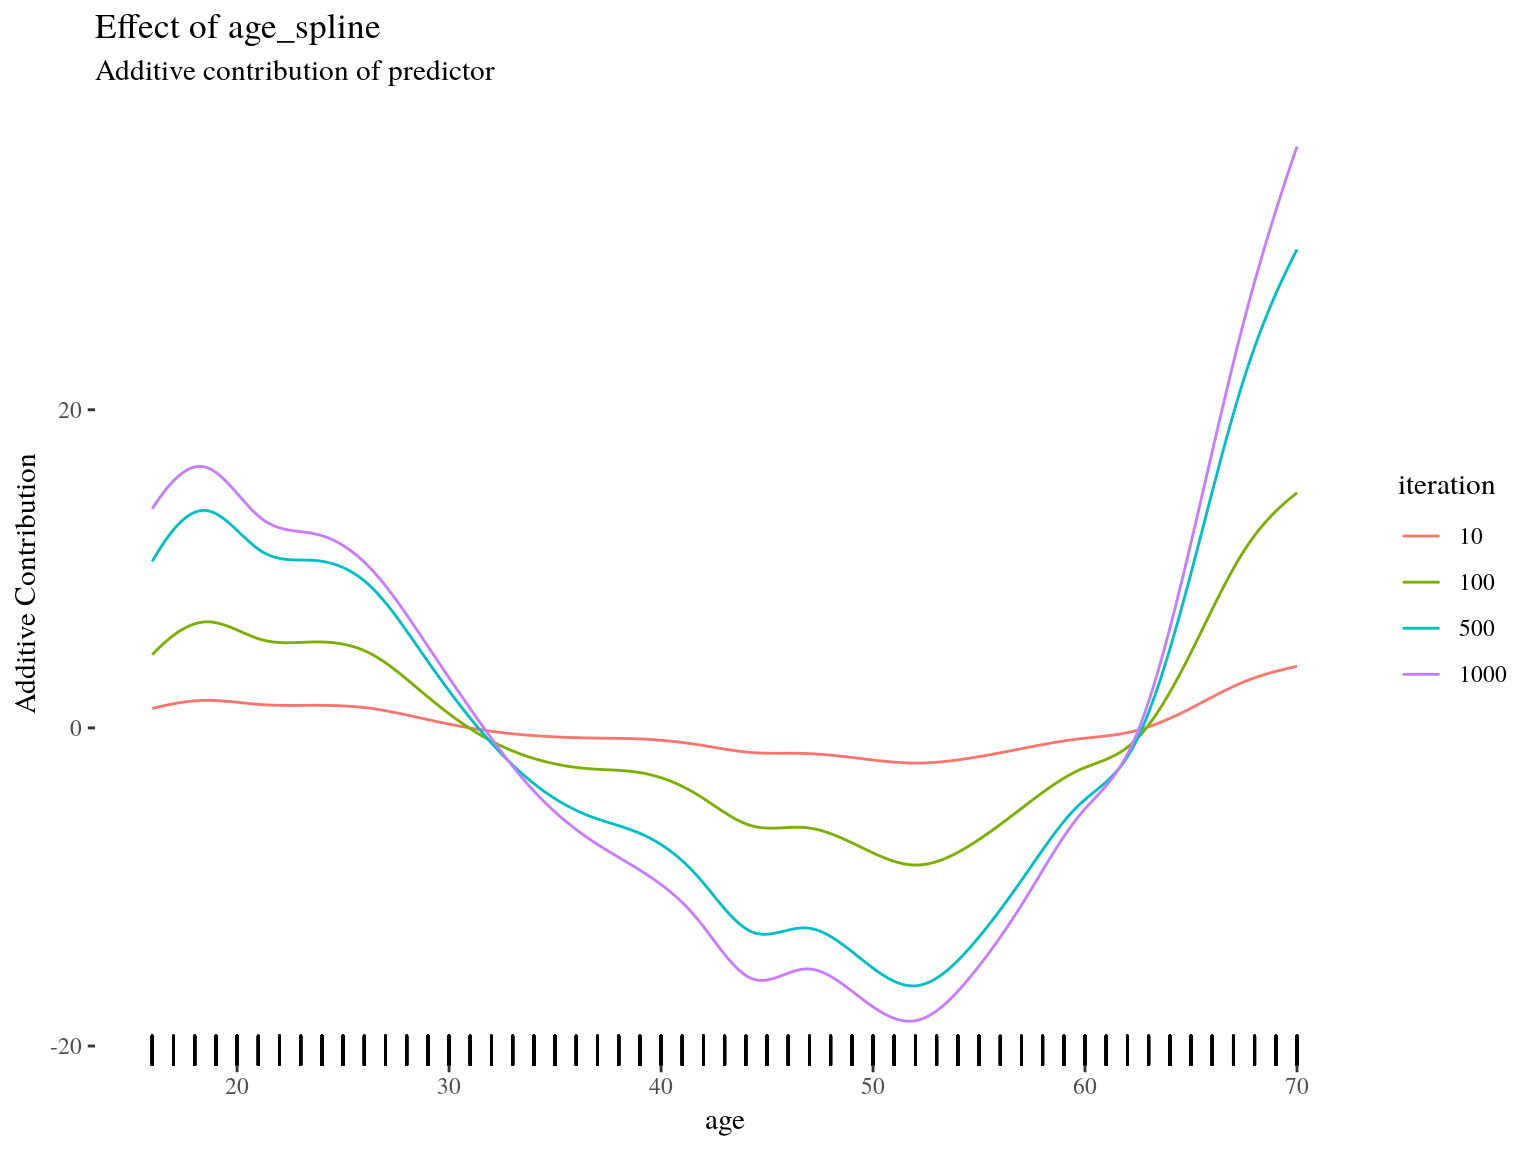
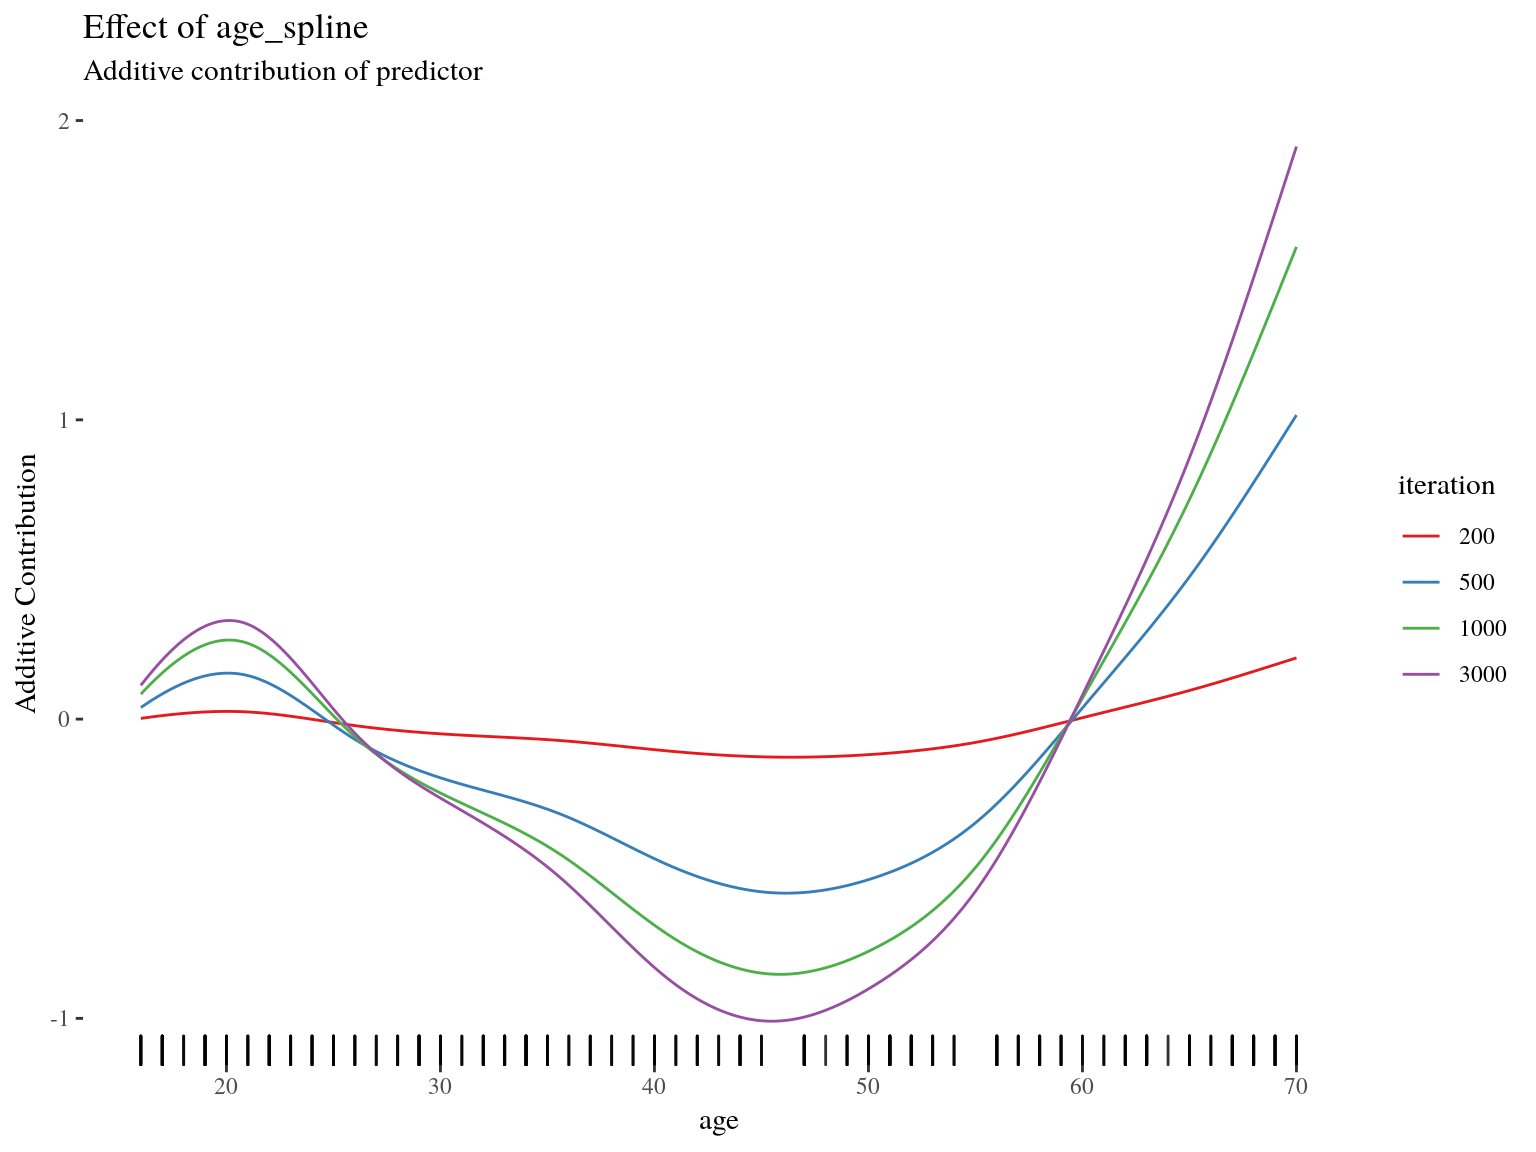
update talk

diff --git a/index.html b/index.html
@@ -521,7 +521,7 @@ document.getElementsByTagName('head')[0].appendChild(style);
     <h2 class="author"><a href='danielschalk.com' target='_blank'>Daniel Schalk</a></h2>
     <h3 class="date">November 29, 2018
 <div style="margin-top:50px;">
-<a href='https://github.com/schalkdaniel/talk_compboost_appliedr' target='_blank'><i style='margin-right:70px;' class='fab fa-github fa-3x'></i></a><a href='https://twitter.com/DanielSchalk242' target='_blank'><i class='fab fa-twitter fa-3x'></i></a>
+<a href='https://github.com/schalkdaniel' target='_blank'><i style='margin-right:70px;' class='fab fa-github fa-3x'></i></a><a href='https://twitter.com/DanielSchalk242' target='_blank'><i class='fab fa-twitter fa-3x'></i></a>
 </div></h3>
 </section>
 
@@ -534,25 +534,153 @@ document.getElementsByTagName('head')[0].appendChild(style);
 </section><section id="a-small-use-case" class="slide level2">
 <h2>A Small Use-Case</h2>
 </section></section>
-<section><section id="compboost" class="title-slide slide level1"><h1><code>compboost</code></h1></section><section id="compboost-1" class="slide level2">
+<section><section id="compboost" class="title-slide slide level1"><h1><code>compboost</code></h1></section><section id="why-component-wise-boosting" class="slide level2">
+<h2>Why Component-Wise Boosting?</h2>
+<p><img data-src="figures/comp_boosting.png" /></p>
+</section><section id="why-component-wise-boosting-1" class="slide level2">
+<h2>Why Component-Wise Boosting?</h2>
+<ul>
+<li><p>Inherent (unbiased) feature selection.</p></li>
+<li><p>Resulting model is sparse since important effects are selected first and therefore it is able to learn in high-dimensional feature spaces (<span class="math inline">\(p \gg n\)</span>).</p></li>
+<li><p>Parameters are updated iteratively. Therefore, the whole trace of how the model evolves is available.</p></li>
+</ul>
+</section><section id="about-compboost" class="slide level2">
+<h2>About <code>compboost</code></h2>
+<p>The <code>compboost</code> package is a fast and flexible framework for model-based boosting completely written in <code>C++</code>:</p>
+<ul>
+<li><p>With <code>mboost</code> as standard, we want to keep the modular principle of defining custom base-learner and losses.</p></li>
+<li><p>Completely written in <code>C++</code> and exposed by <code>Rcpp</code> to obtain high performance and full memory control.</p></li>
+<li><p><code>R</code> API is written in <code>R6</code> to provide convenient wrapper.</p></li>
+<li><p>Major parts of the <code>compboost</code> functionality are unit tested against <code>mboost</code> to ensure correctness.</p></li>
+</ul>
+</section></section>
+<section><section id="example" class="title-slide slide level1"><h1>Example</h1></section><section id="compboost-1" class="slide level2">
 <h2><code>compboost</code></h2>
-<div class="sourceCode" id="cb1"><pre class="sourceCode r"><code class="sourceCode r"><a class="sourceLine" id="cb1-1" data-line-number="1">cboost =<span class="st"> </span><span class="kw">boostSplines</span>(<span class="dt">data =</span> beer_data, <span class="dt">target =</span> <span class="st">&quot;beer_consumption&quot;</span>, </a>
-<a class="sourceLine" id="cb1-2" data-line-number="2">  <span class="dt">optimizer =</span> OptimizerCoordinateDescent<span class="op">$</span><span class="kw">new</span>(), <span class="dt">loss =</span> LossQuadratic<span class="op">$</span><span class="kw">new</span>(), </a>
-<a class="sourceLine" id="cb1-3" data-line-number="3">  <span class="dt">learning.rate =</span> <span class="fl">0.01</span>, <span class="dt">iterations =</span> 1000L, <span class="dt">trace =</span> 200L)</a>
-<a class="sourceLine" id="cb1-4" data-line-number="4"><span class="co">##    1/1000: risk = 3.5e+02</span></a>
-<a class="sourceLine" id="cb1-5" data-line-number="5"><span class="co">##  200/1000: risk = 1.3e+02</span></a>
-<a class="sourceLine" id="cb1-6" data-line-number="6"><span class="co">##  400/1000: risk = 60</span></a>
-<a class="sourceLine" id="cb1-7" data-line-number="7"><span class="co">##  600/1000: risk = 33</span></a>
-<a class="sourceLine" id="cb1-8" data-line-number="8"><span class="co">##  800/1000: risk = 22</span></a>
-<a class="sourceLine" id="cb1-9" data-line-number="9"><span class="co">## 1000/1000: risk = 18</span></a>
+<div class="sourceCode" id="cb1"><pre class="sourceCode r"><code class="sourceCode r"><a class="sourceLine" id="cb1-1" data-line-number="1">cboost =<span class="st"> </span><span class="kw">boostSplines</span>(<span class="dt">data =</span> mulled_wine_data, <span class="dt">target =</span> <span class="st">&quot;mw_consumption&quot;</span>, </a>
+<a class="sourceLine" id="cb1-2" data-line-number="2">  <span class="dt">loss =</span> LossQuadratic<span class="op">$</span><span class="kw">new</span>(), <span class="dt">learning.rate =</span> <span class="fl">0.005</span>, <span class="dt">iterations =</span> 3000L, </a>
+<a class="sourceLine" id="cb1-3" data-line-number="3">  <span class="dt">trace =</span> 600L, <span class="dt">n.knots =</span> <span class="dv">10</span>, <span class="dt">degree =</span> <span class="dv">3</span>)</a>
+<a class="sourceLine" id="cb1-4" data-line-number="4"><span class="co">##    1/3000   risk = 7.4  </span></a>
+<a class="sourceLine" id="cb1-5" data-line-number="5"><span class="co">##  600/3000   risk = 3.6  </span></a>
+<a class="sourceLine" id="cb1-6" data-line-number="6"><span class="co">## 1200/3000   risk = 2.4  </span></a>
+<a class="sourceLine" id="cb1-7" data-line-number="7"><span class="co">## 1800/3000   risk = 1.8  </span></a>
+<a class="sourceLine" id="cb1-8" data-line-number="8"><span class="co">## 2400/3000   risk = 1.4  </span></a>
+<a class="sourceLine" id="cb1-9" data-line-number="9"><span class="co">## 3000/3000   risk = 1.1  </span></a>
 <a class="sourceLine" id="cb1-10" data-line-number="10"><span class="co">## </span></a>
 <a class="sourceLine" id="cb1-11" data-line-number="11"><span class="co">## </span></a>
-<a class="sourceLine" id="cb1-12" data-line-number="12"><span class="co">## Train 1000 iterations in 0 Seconds.</span></a>
-<a class="sourceLine" id="cb1-13" data-line-number="13"><span class="co">## Final risk based on the train set: 18</span></a></code></pre></div>
-</section><section id="visualization" class="slide level2">
-<h2>Visualization</h2>
-<div class="sourceCode" id="cb2"><pre class="sourceCode r"><code class="sourceCode r"><a class="sourceLine" id="cb2-1" data-line-number="1">cboost<span class="op">$</span><span class="kw">plot</span>(<span class="st">&quot;age_spline&quot;</span>, <span class="dt">iters =</span> <span class="kw">c</span>(<span class="dv">10</span>, <span class="dv">100</span>, <span class="dv">500</span>, <span class="dv">1000</span>))</a></code></pre></div>
-<p><img src="index_files/figure-revealjs/unnamed-chunk-3-1.png" width="50%" style="display: block; margin: auto;" /></p>
+<a class="sourceLine" id="cb1-12" data-line-number="12"><span class="co">## Train 3000 iterations in 4 Seconds.</span></a>
+<a class="sourceLine" id="cb1-13" data-line-number="13"><span class="co">## Final risk based on the train set: 1.1</span></a></code></pre></div>
+</section><section id="effect-visualization" class="slide level2">
+<h2>Effect Visualization</h2>
+<div class="sourceCode" id="cb2"><pre class="sourceCode r"><code class="sourceCode r"><a class="sourceLine" id="cb2-1" data-line-number="1">cboost<span class="op">$</span><span class="kw">plot</span>(<span class="st">&quot;age_spline&quot;</span>, <span class="dt">iters =</span> <span class="kw">c</span>(<span class="dv">200</span>, <span class="dv">500</span>, <span class="dv">1000</span>, <span class="dv">3000</span>))</a></code></pre></div>
+<p><img src="index_files/figure-revealjs/unnamed-chunk-3-1.png" width="70%" style="display: block; margin: auto;" /></p>
+</section><section id="early-stopping" class="slide level2">
+<h2>Early Stopping</h2>
+<div class="sourceCode" id="cb3"><pre class="sourceCode r"><code class="sourceCode r"><a class="sourceLine" id="cb3-1" data-line-number="1">n_data =<span class="st"> </span><span class="kw">nrow</span>(mulled_wine_data)</a>
+<a class="sourceLine" id="cb3-2" data-line-number="2">idx_train =<span class="st"> </span><span class="kw">sample</span>(<span class="dt">x =</span> <span class="kw">seq_len</span>(n_data), <span class="dt">size =</span> n_data <span class="op">*</span><span class="st"> </span><span class="fl">0.75</span>)</a>
+<a class="sourceLine" id="cb3-3" data-line-number="3">idx_test =<span class="st"> </span><span class="kw">setdiff</span>(<span class="dt">x =</span> <span class="kw">seq_len</span>(n_data), idx_train)</a></code></pre></div>
+</section><section id="early-stopping-1" class="slide level2">
+<h2>Early Stopping</h2>
+<div class="sourceCode" id="cb4"><pre class="sourceCode r"><code class="sourceCode r"><a class="sourceLine" id="cb4-1" data-line-number="1">target =<span class="st"> &quot;mw_consumption&quot;</span></a>
+<a class="sourceLine" id="cb4-2" data-line-number="2"></a>
+<a class="sourceLine" id="cb4-3" data-line-number="3">cboost =<span class="st"> </span>Compboost<span class="op">$</span><span class="kw">new</span>(<span class="dt">data =</span> mulled_wine_data[idx_train,], </a>
+<a class="sourceLine" id="cb4-4" data-line-number="4">  <span class="dt">target =</span> target, <span class="dt">loss =</span> LossQuadratic<span class="op">$</span><span class="kw">new</span>(), <span class="dt">learning.rate =</span> <span class="fl">0.005</span>)</a>
+<a class="sourceLine" id="cb4-5" data-line-number="5"></a>
+<a class="sourceLine" id="cb4-6" data-line-number="6"><span class="cf">for</span> (feature_name <span class="cf">in</span> <span class="kw">setdiff</span>(<span class="kw">names</span>(mulled_wine_data), target)) {</a>
+<a class="sourceLine" id="cb4-7" data-line-number="7">  <span class="cf">if</span> (feature_name <span class="op">%in%</span><span class="st"> </span><span class="kw">c</span>(<span class="st">&quot;gender&quot;</span>, <span class="st">&quot;country&quot;</span>)) {</a>
+<a class="sourceLine" id="cb4-8" data-line-number="8">    cboost<span class="op">$</span><span class="kw">addBaselearner</span>(<span class="dt">feature =</span> feature_name, <span class="dt">id =</span> <span class="st">&quot;category&quot;</span>, </a>
+<a class="sourceLine" id="cb4-9" data-line-number="9">      <span class="dt">bl.factory =</span> BaselearnerPolynomial, <span class="dt">degree =</span> 1L, <span class="dt">intercept =</span> <span class="ot">FALSE</span>)</a>
+<a class="sourceLine" id="cb4-10" data-line-number="10">  } <span class="cf">else</span> {</a>
+<a class="sourceLine" id="cb4-11" data-line-number="11">    cboost<span class="op">$</span><span class="kw">addBaselearner</span>(<span class="dt">feature =</span> feature_name, <span class="dt">id =</span> <span class="st">&quot;spline&quot;</span>, </a>
+<a class="sourceLine" id="cb4-12" data-line-number="12">      <span class="dt">bl.factory =</span> BaselearnerPSpline, <span class="dt">degree =</span> 3L, <span class="dt">n.knots =</span> 10L)</a>
+<a class="sourceLine" id="cb4-13" data-line-number="13">  }</a>
+<a class="sourceLine" id="cb4-14" data-line-number="14">}</a></code></pre></div>
+</section><section id="early-stopping-2" class="slide level2">
+<h2>Early Stopping</h2>
+<div class="sourceCode" id="cb5"><pre class="sourceCode r"><code class="sourceCode r"><a class="sourceLine" id="cb5-1" data-line-number="1">oob_data =<span class="st"> </span>cboost<span class="op">$</span><span class="kw">prepareData</span>(mulled_wine_data[idx_test,])</a></code></pre></div>
+</section><section id="early-stopping-3" class="slide level2">
+<h2>Early Stopping</h2>
+<div class="sourceCode" id="cb6"><pre class="sourceCode r"><code class="sourceCode r"><a class="sourceLine" id="cb6-1" data-line-number="1">cboost<span class="op">$</span><span class="kw">addLogger</span>(<span class="dt">logger =</span> LoggerOobRisk, <span class="dt">use.as.stopper =</span> <span class="ot">FALSE</span>, </a>
+<a class="sourceLine" id="cb6-2" data-line-number="2">  <span class="dt">logger.id =</span> <span class="st">&quot;oob_logger&quot;</span>, <span class="dt">used.loss =</span> LossQuadratic<span class="op">$</span><span class="kw">new</span>(), </a>
+<a class="sourceLine" id="cb6-3" data-line-number="3">  <span class="dt">eps.for.break =</span> <span class="dv">0</span>, <span class="dt">oob.data =</span> oob_data, </a>
+<a class="sourceLine" id="cb6-4" data-line-number="4">  <span class="dt">oob.response =</span> mulled_wine_data<span class="op">$</span>mw_consumption[idx_test])</a>
+<a class="sourceLine" id="cb6-5" data-line-number="5"></a>
+<a class="sourceLine" id="cb6-6" data-line-number="6">cboost<span class="op">$</span><span class="kw">train</span>(3000L, <span class="dt">trace =</span> 1500L)</a>
+<a class="sourceLine" id="cb6-7" data-line-number="7"><span class="co">##    1/3000   risk = 7.7  oob_logger = 6.7   </span></a>
+<a class="sourceLine" id="cb6-8" data-line-number="8"><span class="co">## 1500/3000   risk = 2  oob_logger = 3.6   </span></a>
+<a class="sourceLine" id="cb6-9" data-line-number="9"><span class="co">## 3000/3000   risk = 0.84  oob_logger = 3.7   </span></a>
+<a class="sourceLine" id="cb6-10" data-line-number="10"><span class="co">## </span></a>
+<a class="sourceLine" id="cb6-11" data-line-number="11"><span class="co">## </span></a>
+<a class="sourceLine" id="cb6-12" data-line-number="12"><span class="co">## Train 3000 iterations in 4 Seconds.</span></a>
+<a class="sourceLine" id="cb6-13" data-line-number="13"><span class="co">## Final risk based on the train set: 0.84</span></a>
+<a class="sourceLine" id="cb6-14" data-line-number="14"></a>
+<a class="sourceLine" id="cb6-15" data-line-number="15">inbag_trace =<span class="st"> </span>cboost<span class="op">$</span><span class="kw">getInbagRisk</span>()[<span class="op">-</span><span class="dv">1</span>]</a>
+<a class="sourceLine" id="cb6-16" data-line-number="16">logger_data =<span class="st"> </span>cboost<span class="op">$</span><span class="kw">getLoggerData</span>()</a>
+<a class="sourceLine" id="cb6-17" data-line-number="17"></a>
+<a class="sourceLine" id="cb6-18" data-line-number="18">risk_data =<span class="st"> </span><span class="kw">data.frame</span>(</a>
+<a class="sourceLine" id="cb6-19" data-line-number="19">  <span class="dt">risk =</span> <span class="kw">c</span>(inbag_trace, logger_data[[<span class="st">&quot;oob_logger&quot;</span>]]),</a>
+<a class="sourceLine" id="cb6-20" data-line-number="20">  <span class="dt">type =</span> <span class="kw">rep</span>(<span class="kw">c</span>(<span class="st">&quot;inbag&quot;</span>, <span class="st">&quot;oob&quot;</span>), <span class="dt">each =</span> <span class="kw">length</span>(inbag_trace)),</a>
+<a class="sourceLine" id="cb6-21" data-line-number="21">  <span class="dt">iter =</span> <span class="kw">rep</span>(<span class="kw">seq_along</span>(inbag_trace), <span class="dt">times =</span> 2L)</a>
+<a class="sourceLine" id="cb6-22" data-line-number="22">)</a></code></pre></div>
+</section><section id="early-stopping-4" class="slide level2">
+<h2>Early Stopping</h2>
+<div class="sourceCode" id="cb7"><pre class="sourceCode r"><code class="sourceCode r"><a class="sourceLine" id="cb7-1" data-line-number="1"><span class="kw">ggplot</span>(<span class="dt">data =</span> risk_data, <span class="kw">aes</span>(<span class="dt">x =</span> iter, <span class="dt">y =</span> risk, <span class="dt">color =</span> type)) <span class="op">+</span><span class="st"> </span></a>
+<a class="sourceLine" id="cb7-2" data-line-number="2"><span class="st">  </span><span class="kw">geom_line</span>() <span class="op">+</span><span class="st"> </span><span class="kw">theme_tufte</span>() <span class="op">+</span><span class="st"> </span><span class="kw">scale_color_brewer</span>(<span class="dt">palette =</span> <span class="st">&quot;Set1&quot;</span>)</a></code></pre></div>
+<p><img src="index_files/figure-revealjs/unnamed-chunk-8-1.png" width="70%" style="display: block; margin: auto;" /></p>
+</section><section id="early-stopping-5" class="slide level2">
+<h2>Early Stopping</h2>
+<div class="sourceCode" id="cb8"><pre class="sourceCode r"><code class="sourceCode r"><a class="sourceLine" id="cb8-1" data-line-number="1">cboost<span class="op">$</span><span class="kw">train</span>(980L)</a></code></pre></div>
+</section><section id="feature-importance" class="slide level2">
+<h2>Feature Importance</h2>
+<p><img src="index_files/figure-revealjs/unnamed-chunk-10-1.png" width="70%" style="display: block; margin: auto;" /></p>
+</section><section id="using-custom-losses" class="slide level2">
+<h2>Using Custom Losses</h2>
+<div class="sourceCode" id="cb9"><pre class="sourceCode r"><code class="sourceCode r"><a class="sourceLine" id="cb9-1" data-line-number="1">lossPoi =<span class="st"> </span><span class="cf">function</span> (truth, pred) {</a>
+<a class="sourceLine" id="cb9-2" data-line-number="2">  <span class="kw">return</span> (<span class="op">-</span><span class="kw">log</span>(<span class="kw">exp</span>(pred)<span class="op">^</span>truth <span class="op">*</span><span class="st"> </span><span class="kw">exp</span>(<span class="op">-</span><span class="kw">exp</span>(pred)) <span class="op">/</span><span class="st"> </span><span class="kw">gamma</span>(truth <span class="op">+</span><span class="st"> </span><span class="dv">1</span>)))</a>
+<a class="sourceLine" id="cb9-3" data-line-number="3">}</a>
+<a class="sourceLine" id="cb9-4" data-line-number="4">gradPoi =<span class="st"> </span><span class="cf">function</span> (truth, pred) {</a>
+<a class="sourceLine" id="cb9-5" data-line-number="5">  <span class="kw">return</span> (<span class="kw">exp</span>(pred) <span class="op">-</span><span class="st"> </span>truth)</a>
+<a class="sourceLine" id="cb9-6" data-line-number="6">}</a>
+<a class="sourceLine" id="cb9-7" data-line-number="7">constInitPoi =<span class="st"> </span><span class="cf">function</span> (truth) {</a>
+<a class="sourceLine" id="cb9-8" data-line-number="8">  <span class="kw">return</span> (<span class="kw">log</span>(<span class="kw">mean.default</span>(truth)))</a>
+<a class="sourceLine" id="cb9-9" data-line-number="9">}</a>
+<a class="sourceLine" id="cb9-10" data-line-number="10"><span class="co"># Define custom loss:</span></a>
+<a class="sourceLine" id="cb9-11" data-line-number="11">my_poisson_loss =<span class="st"> </span>LossCustom<span class="op">$</span><span class="kw">new</span>(lossPoi, gradPoi, constInitPoi)</a></code></pre></div>
+</section><section id="using-custom-losses-1" class="slide level2">
+<h2>Using Custom Losses</h2>
+<div class="sourceCode" id="cb10"><pre class="sourceCode r"><code class="sourceCode r"><a class="sourceLine" id="cb10-1" data-line-number="1">cboost =<span class="st"> </span><span class="kw">boostSplines</span>(<span class="dt">data =</span> mulled_wine_data, <span class="dt">target =</span> <span class="st">&quot;mw_consumption&quot;</span>, </a>
+<a class="sourceLine" id="cb10-2" data-line-number="2">  <span class="dt">optimizer =</span> OptimizerCoordinateDescent<span class="op">$</span><span class="kw">new</span>(), <span class="dt">loss =</span> my_poisson_loss, </a>
+<a class="sourceLine" id="cb10-3" data-line-number="3">  <span class="dt">learning.rate =</span> <span class="fl">0.005</span>, <span class="dt">iterations =</span> 3000L, <span class="dt">trace =</span> 600L, <span class="dt">n.knots =</span> <span class="dv">10</span>, </a>
+<a class="sourceLine" id="cb10-4" data-line-number="4">  <span class="dt">degree =</span> <span class="dv">3</span>)</a>
+<a class="sourceLine" id="cb10-5" data-line-number="5"><span class="co">##    1/3000   risk = 3.3  </span></a>
+<a class="sourceLine" id="cb10-6" data-line-number="6"><span class="co">##  600/3000   risk = 1.5  </span></a>
+<a class="sourceLine" id="cb10-7" data-line-number="7"><span class="co">## 1200/3000   risk = 1.2  </span></a>
+<a class="sourceLine" id="cb10-8" data-line-number="8"><span class="co">## 1800/3000   risk = 1.1  </span></a>
+<a class="sourceLine" id="cb10-9" data-line-number="9"><span class="co">## 2400/3000   risk = 1  </span></a>
+<a class="sourceLine" id="cb10-10" data-line-number="10"><span class="co">## 3000/3000   risk = 0.95  </span></a>
+<a class="sourceLine" id="cb10-11" data-line-number="11"><span class="co">## </span></a>
+<a class="sourceLine" id="cb10-12" data-line-number="12"><span class="co">## </span></a>
+<a class="sourceLine" id="cb10-13" data-line-number="13"><span class="co">## Train 3000 iterations in 4 Seconds.</span></a>
+<a class="sourceLine" id="cb10-14" data-line-number="14"><span class="co">## Final risk based on the train set: 0.95</span></a></code></pre></div>
+</section><section id="using-custom-losses-2" class="slide level2">
+<h2>Using Custom Losses</h2>
+<div class="sourceCode" id="cb11"><pre class="sourceCode r"><code class="sourceCode r"><a class="sourceLine" id="cb11-1" data-line-number="1">params =<span class="st"> </span>cboost<span class="op">$</span><span class="kw">getEstimatedCoef</span>()</a>
+<a class="sourceLine" id="cb11-2" data-line-number="2">params[[<span class="st">&quot;country_Seychelles_category&quot;</span>]]</a>
+<a class="sourceLine" id="cb11-3" data-line-number="3"><span class="co">##       [,1]</span></a>
+<a class="sourceLine" id="cb11-4" data-line-number="4"><span class="co">## [1,] 1.243</span></a>
+<a class="sourceLine" id="cb11-5" data-line-number="5">params[[<span class="st">&quot;country_Poland_category&quot;</span>]]</a>
+<a class="sourceLine" id="cb11-6" data-line-number="6"><span class="co">##         [,1]</span></a>
+<a class="sourceLine" id="cb11-7" data-line-number="7"><span class="co">## [1,] -0.7579</span></a></code></pre></div>
+</section></section>
+<section><section id="from-c-to-r" class="title-slide slide level1"><h1>From C++ to R</h1></section><section id="rcpp" class="slide level2">
+<h2>Rcpp</h2>
+</section></section>
+<section><section id="what-happens-next" class="title-slide slide level1"><h1>What Happens Next?</h1></section><section id="section" class="slide level2">
+<h2></h2>
+<ul>
+<li>bli</li>
+<li>bla</li>
+<li>blu</li>
+</ul>
 </section></section>
 <section><section id="thanks-for-your-attention" class="title-slide slide level1"><h1>Thanks for your attention!</h1></section><section id="credits" class="slide level2">
 <h2>Credits</h2>

diff --git a/myreveal.css b/myreveal.css
@@ -66,7 +66,7 @@ body {
 
 .reveal {
   font-family: var(--main-font-family);
-  font-size: 34px;
+  font-size: 24px;
   font-weight: normal;
   color: #fff; }
 
